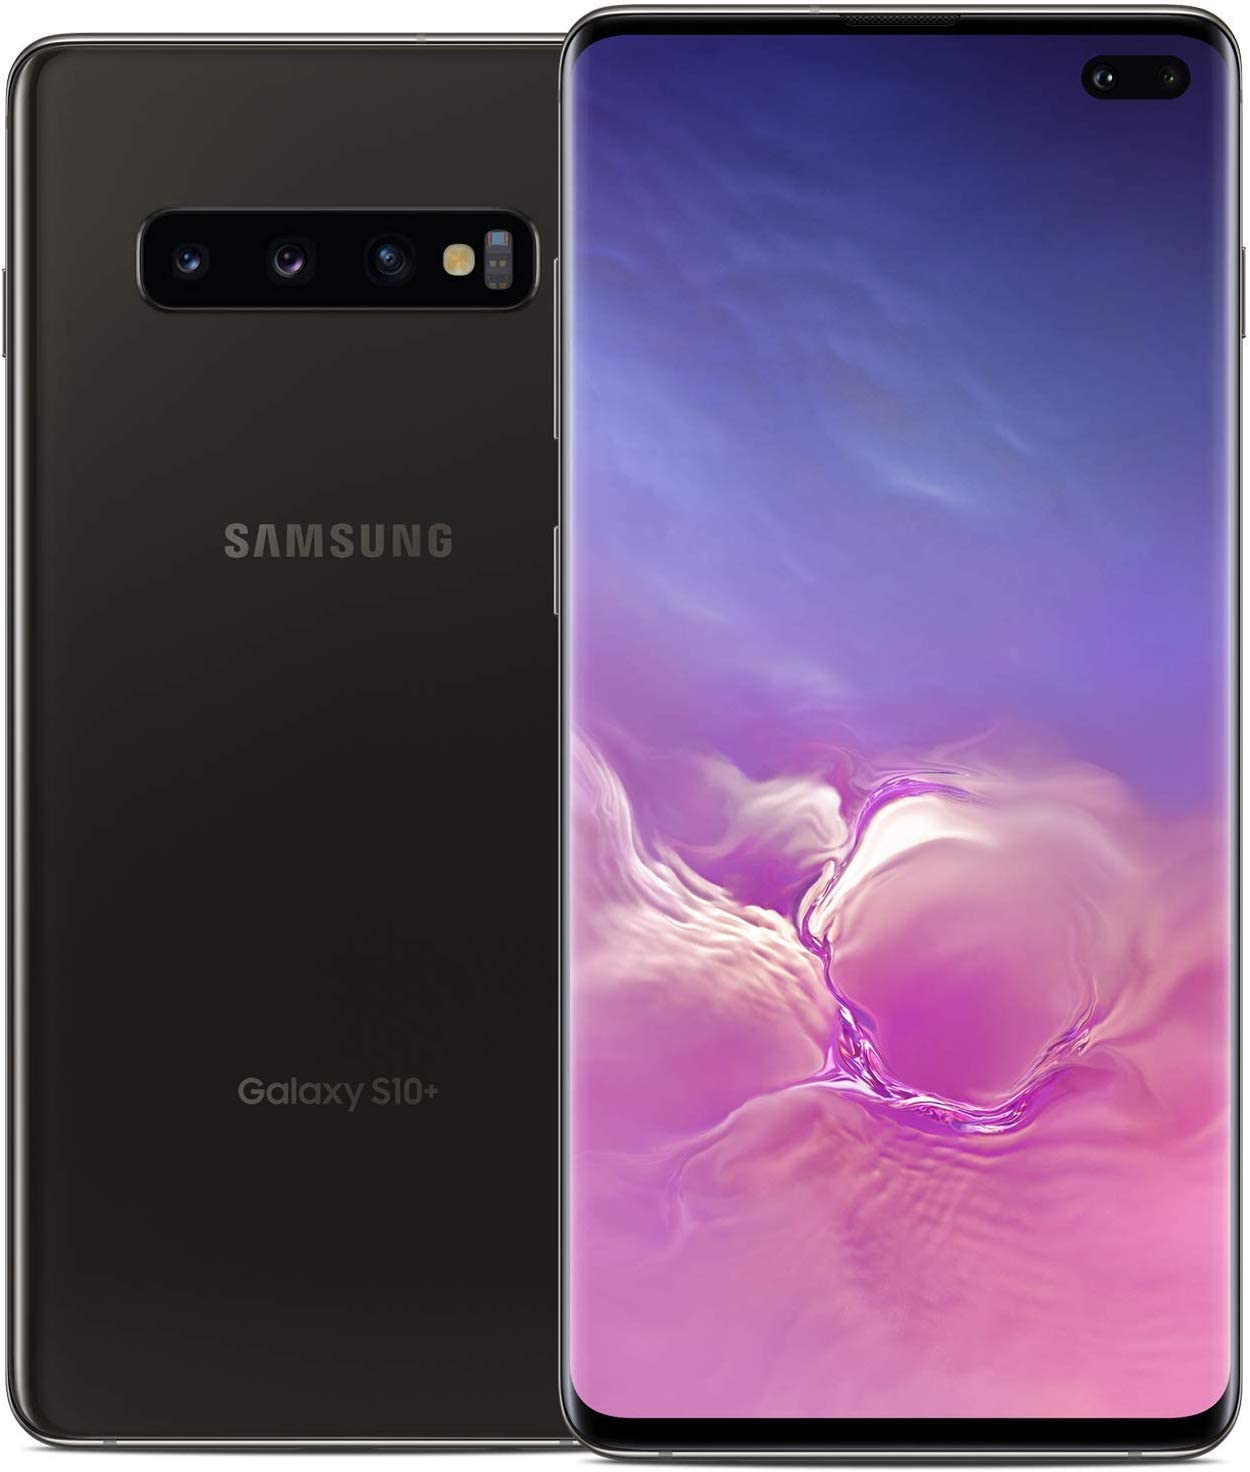
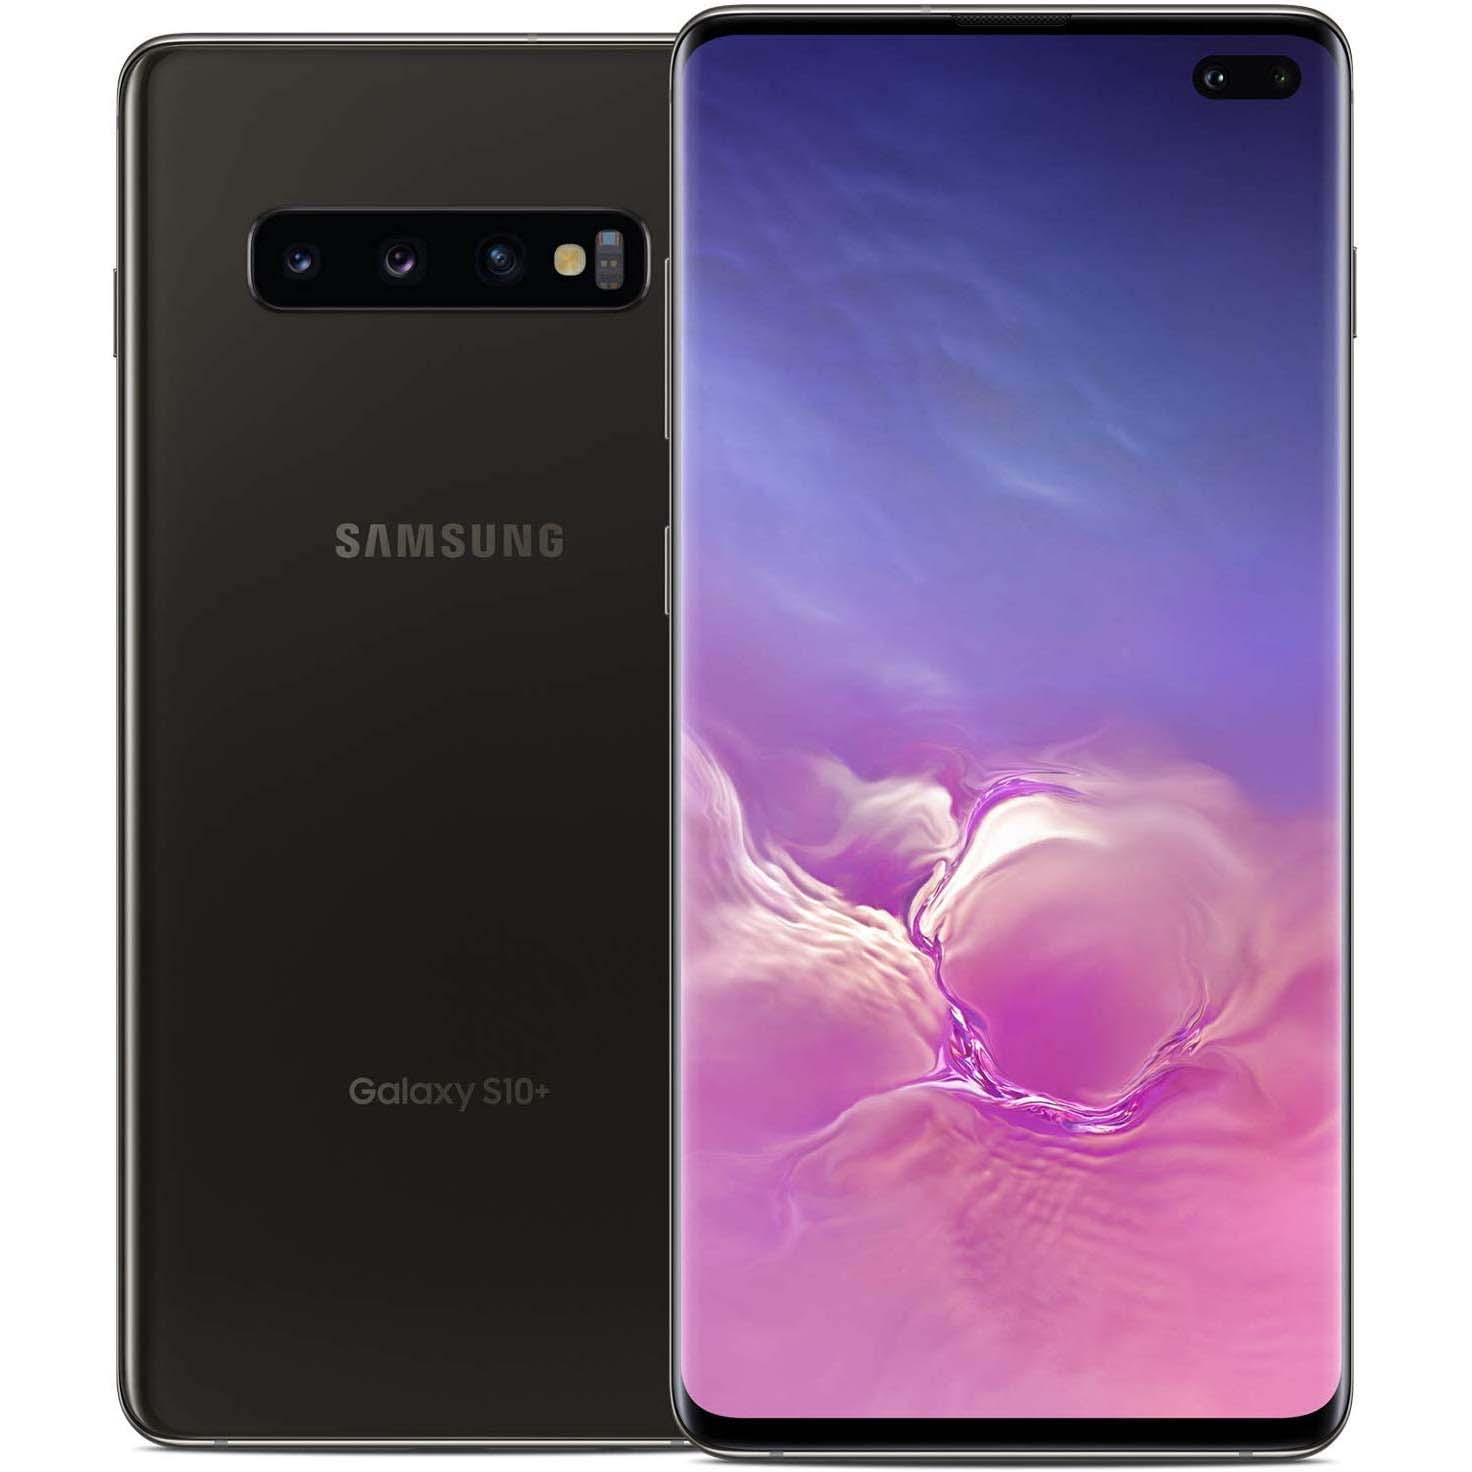
single Product fetching completed from state
also images squared in Photoshop

diff --git a/src/Views/SingleProductView.jsx b/src/Views/SingleProductView.jsx
@@ -1,5 +1,5 @@
-import React from 'react'
-import { useSelector } from 'react-redux'
+import React, { useEffect } from 'react'
+import { useDispatch, useSelector } from 'react-redux'
 import { useLocation } from 'react-router-dom'
 import styled from 'styled-components'
 import CarouselComp from '../components/CarouselComp'
@@ -7,53 +7,88 @@ import { Button, Col, Container, Row } from '../components/Categories'
 import Footer from '../components/Footer'
 import Navbar from '../components/Navbar'
 import RelatedProducts from '../components/RelatedProducts'
+import {  selectCurretProduct } from '../redux/productSlice'
 
+import {TiStarFullOutline,TiStarHalfOutline,TiStarOutline} from 'react-icons/ti'
 
 
 const ContainerSmall = styled.div`
   
 `
 
+const Title = styled.h1`
+  
+`
+const Text = styled.p`
+  
+`
+const Box = styled.div`
+  
+`
+const StarDiv = styled.div`
+  
+`
 const SingleProductView = () => {
-
+    const allProducts = useSelector(state=>state.products.allProducts)
     const location = useLocation()
-    console.log(location);
-    // const getSingleProduct = useSelector()
+    let productId = location.pathname.split('/')[2] * 1
+    const dispatch = useDispatch()
+   
+    //First get all product from state
+    //Find product and dispatch it to the reducer
+    useEffect(() => {
+      let product = allProducts.find((product)=>{
+        return product.id===productId
+      })
+      dispatch(selectCurretProduct(product))
+    }, [dispatch])
+    
+    //My Product Info
+    let currentProduct = useSelector(state=>state.products.currentProduct)
+    let imagesOfProduct = currentProduct?currentProduct.images : null
 
+    let oldPrice = currentProduct.price;
+    let newPrice = parseInt(Math.round(currentProduct.price - (oldPrice * 0.2)))
     return (
     <Container style={{backgroundColor:'#eeeded'}}>
        <Navbar/>
         <ContainerSmall className='container mb-5 mt-5' >
         <Row className='row'>
           <Col className='col-lg-5 col-md-5' >
-            <CarouselComp/>
+            <CarouselComp images={imagesOfProduct}/>
           </Col>
           <Col className='col-lg-6 col-md-5 mx-4' style={{backgroundColor:'#ffffff'}}>
-            <h1>Active</h1>
-            <h3>$25</h3>
-            <div>
-              ***** Rating 4.8 | 36 Comments
-            </div>
-            <strong>Brand</strong> : Easy Wear
-            <div>
-              <strong>Description</strong>
-              <p>Lorem ipsum dolor sit amet consectetur, adipisicing elit. Nesciunt ea rem vel doloremque reiciendis odit aut, voluptates laborum ut vitae! Lorem ipsum dolor sit amet consectetur adipisicing elit. Excepturi nisi consectetur dicta laborum quidem officia laboriosam optio facilis eligendi amet?</p>
-            </div>
-            <div>
-              <strong>Available Colors: </strong> Black white
-            </div>
+            <Title> {currentProduct.name} </Title>
+            <Text> <strong>Condition</strong> : {currentProduct.condition} </Text>
+            <Title className='h3'> $ {newPrice} </Title>
+            
+            <StarDiv className='mb-3'>
+                   <TiStarFullOutline style={{color:'#FFEB00'}} size={25}/>
+                   <TiStarFullOutline style={{color:'#FFEB00'}} size={25}/>
+                   <TiStarFullOutline style={{color:'#FFEB00'}} size={25}/>
+                   <TiStarHalfOutline style={{color:'#FFEB00'}} size={25}/>
+                   <TiStarOutline style={{color:'#FFEB00'}} size={25}/>
+                </StarDiv> Rating 4.8 | 36 Comments
+            <strong>Brand</strong> : <Text className='d-inline text-capitalize'>{currentProduct.brand}</Text>
+            <Box>
+              <Title className='h2'>Description</Title>
+              <Text>
+                {currentProduct.description}
+              </Text>
+            </Box>
+            <Box className='mb-3'>
+              <strong>Color </strong>:<Text className='d-inline text-capitalize'>{currentProduct.color}</Text>
+
+            </Box>
             <div><strong>Spectification: </strong>
               <ul>
-                <li>abc</li>
-                <li>abc</li>
-                <li>abc</li>
-                <li>abc</li>
-                <li>abc</li>
-                <li>abc</li>
+                <li>Model: <Text className='d-inline text-capitalize'>{currentProduct.model_name}</Text></li>
+                <li>Storage:  <Text className='d-inline text-capitalize'>{currentProduct.storage} GB</Text></li>
+                <li>Operating System:  <Text className='d-inline text-capitalize'>{currentProduct.os}</Text></li>
+                <li>Screen Size:  <Text className='d-inline text-capitalize'>{currentProduct.size}</Text></li>
               </ul>
             </div>
             <div className='d-flex'>
-              <div className='me-auto'>Size</div>
               <div className='ms-auto'>Quantitiy</div>
             </div>
             <div>

diff --git a/src/components/products.js b/src/components/products.js
@@ -47,6 +47,7 @@ export const allProducts = [
       { id: 4, imageLink: "/images/products/s10_03.jpg" },
       { id: 5, imageLink: "/images/products/s10_04.jpg" },
       { id: 6, imageLink: "/images/products/s10_05.jpg" },
+      { id: 6, imageLink: "/images/products/s10_06.jpg" },
   ],
   },
   {
@@ -89,10 +90,12 @@ export const allProducts = [
     reviews: [{ id: 331, user: "Shahid", comment: "Phone is best for academic activities" }],
     images: [
       { id: 0, imageLink: "/images/products/p40_thumb.png" },
-      { id: 1, imageLink: "/images/products/iphone12_01.jpg" },
-      { id: 3, imageLink: "/images/products/iphone12_02.jpg" },
-      { id: 4, imageLink: "/images/products/iphone12_03.jpg" },
-      { id: 5, imageLink: "/images/products/iphone12_04.jpg" },
+      { id: 1, imageLink: "/images/products/p40_01.jpg" },
+      { id: 3, imageLink: "/images/products/p40_02.jpg" },
+      { id: 4, imageLink: "/images/products/p40_03.jpg" },
+      { id: 5, imageLink: "/images/products/p40_04.jpg" },
+      { id: 6, imageLink: "/images/products/p40_05.jpg" },
+      { id: 7, imageLink: "/images/products/p40_06.jpg" },
   ],
   }, 
   {
@@ -116,6 +119,7 @@ export const allProducts = [
       { id: 3, imageLink: "/images/products/oneplus9_02.jpg" },
       { id: 4, imageLink: "/images/products/oneplus9_03.jpg" },
       { id: 5, imageLink: "/images/products/oneplus9_04.jpg" },
+      { id: 5, imageLink: "/images/products/oneplus9_05.jpg" }
   ],
   },
 ];

diff --git a/src/components/CarouselComp.jsx b/src/components/CarouselComp.jsx
@@ -1,23 +1,30 @@
 import React from 'react'
 import { Carousel } from 'react-responsive-carousel';
 import "react-responsive-carousel/lib/styles/carousel.min.css";
+import styled from 'styled-components';
 
-const CarouselComp = () => {
+const ImageWrapper = styled.div`
+    max-width:600px ;
+    max-height: 600px ;
+`
+const Image= styled.img`
+  width:10% ;
+  height: 10% ;
+  object-fit:cover ;
+`
+const CarouselComp = ({images}) => {
+  //Because of removing thumbnail image from array
+  let filteredImages = images ? images.filter((image)=>{
+      return image.id!==0
+  }) : [];
   return (
     <div className="carousel-wrapper">
-    <Carousel infiniteLoop useKeyboardArrows autoPlay>
-        <div>
-            <img src="/images/macbook0.jpg" />
-        </div>
-        <div>
-        <img src="/images/macbook1.jpg" />
-        </div>
-        <div>
-        <img src="/images/macbook2.jpg" />
-        </div>
-        <div>
-        <img src="/images/macbook3.jpg" />
-        </div>
+    <Carousel  infiniteLoop useKeyboardArrows autoPlay>
+        {(filteredImages.map((image) => {
+          return  <div>
+          <img src= {image.imageLink} />
+      </div> 
+        }))}
     </Carousel>
 </div>
   )

diff --git a/src/redux/productSlice.js b/src/redux/productSlice.js
@@ -8,11 +8,12 @@ const productsSLice = createSlice({
         currentProduct:{},
         filteredProducts:[]
     },reducers:{
-        selectCurretCar : (state,action)=>{
+        selectCurretProduct : (state,action)=>{
             state.currentProduct = action.payload
-        }
+        },
+        
     }
 })
 
-export const {selectCurretCar} = productsSLice.actions
+export const {selectCurretProduct,getSingleProduct} = productsSLice.actions
 export default productsSLice.reducer

diff --git a/src/components/CardComp.jsx b/src/components/CardComp.jsx
@@ -100,7 +100,6 @@ const LinkComp = styled(Link)`
                    <TiStarFullOutline style={{color:'#FFEB00'}} size={25}/>
                    <TiStarHalfOutline style={{color:'#FFEB00'}} size={25}/>
                    <TiStarOutline style={{color:'#FFEB00'}} size={25}/>
-
                 </StarDiv>
                 <Text className='text-center mt-2' bold>
                 <Strike>${oldPrice}</Strike> {" "} {newPrice}$

diff --git a/src/components/Navbar.jsx b/src/components/Navbar.jsx
@@ -15,16 +15,12 @@ box-shadow: -1px 8px 10px -4px #00000068;
 z-index: 100;
 `;
 const Left = styled.div`
-	/* flex: 1; */
 `;
 const Center = styled.div`
-	/* flex: 1; */
 `;
 const Right = styled.div`
-	/* flex: 1; */
 `;
 const ImageWrapper = styled.div`
-	height: 6rem;
 	width:15rem;
 	padding: 30px;
 ;`;

diff --git a/src/Views/ShopView.jsx b/src/Views/ShopView.jsx
@@ -67,7 +67,7 @@ const FiltersBox = styled.div``;
 const ShopView = () => {
 
   let allProducts = useSelector(state=>state.products.allProducts)
-  console.log(allProducts);
+
   return (
     <>
       <Navbar />
